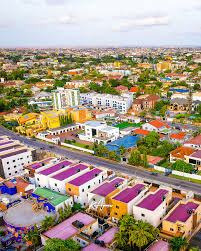
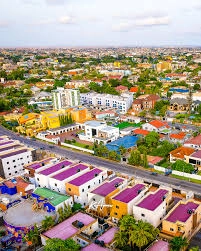
optimized images

diff --git a/place.html b/place.html
@@ -20,85 +20,87 @@
       <h1>Ghana</h1>
     </header>
 
-    <!-- Hero image using picture/srcset for responsive images -->
-    <picture class="hero">
-      <source media="(min-width: 600px)" srcset="images/ghana-wide.webp">
-      <img src="images/ghana-small.webp" alt="Aerial view of Accra, Ghana showing colourful rooftops and streets" width="800" height="500" loading="eager">
-    </picture>
+    <main>
+        <!-- Hero image using picture/srcset for responsive images -->
+        <picture class="hero">
+        <source media="(min-width: 600px)" srcset="images/ghana-wide.webp">
+        <img src="images/ghana-small.webp" alt="Aerial view of Accra, Ghana showing colourful rooftops and streets" width="800" height="500" loading="eager">
+        </picture>
 
-    <!-- Data section -->
-    <section class="data-section">
-      <h2>Data</h2>
-      <dl class="data-list">
-        <div class="data-row">
-          <dt>Area:</dt>
-          <dd>238,533 sq km</dd>
-        </div>
-        <div class="data-row">
-          <dt>Population:</dt>
-          <dd>33,475,870</dd>
-        </div>
-        <div class="data-row">
-          <dt>Capital:</dt>
-          <dd>Accra</dd>
-        </div>
-        <div class="data-row">
-          <dt>Languages:</dt>
-          <dd>English, Twi, Fante</dd>
-        </div>
-        <div class="data-row">
-          <dt>Currency:</dt>
-          <dd>Ghanaian Cedi</dd>
-        </div>
-        <div class="data-row">
-          <dt>Time Zone:</dt>
-          <dd>UTC+0</dd>
-        </div>
-        <div class="data-row">
-          <dt>Calling Code:</dt>
-          <dd>+233</dd>
-        </div>
-        <div class="data-row">
-          <dt>Internet TLD:</dt>
-          <dd>.gh</dd>
-        </div>
-      </dl>
-    </section>
+        <!-- Data section -->
+        <section class="data-section">
+        <h2>Data</h2>
+        <dl class="data-list">
+            <div class="data-row">
+            <dt>Area:</dt>
+            <dd>238,533 sq km</dd>
+            </div>
+            <div class="data-row">
+            <dt>Population:</dt>
+            <dd>33,475,870</dd>
+            </div>
+            <div class="data-row">
+            <dt>Capital:</dt>
+            <dd>Accra</dd>
+            </div>
+            <div class="data-row">
+            <dt>Languages:</dt>
+            <dd>English, Twi, Fante</dd>
+            </div>
+            <div class="data-row">
+            <dt>Currency:</dt>
+            <dd>Ghanaian Cedi</dd>
+            </div>
+            <div class="data-row">
+            <dt>Time Zone:</dt>
+            <dd>UTC+0</dd>
+            </div>
+            <div class="data-row">
+            <dt>Calling Code:</dt>
+            <dd>+233</dd>
+            </div>
+            <div class="data-row">
+            <dt>Internet TLD:</dt>
+            <dd>.gh</dd>
+            </div>
+        </dl>
+        </section>
 
-    <!-- Weather section -->
-    <section class="weather-section">
-      <h2 class="weather-heading">Weather</h2>
+        <!-- Weather section -->
+        <section class="weather-section">
+        <h2 class="weather-heading">Weather</h2>
 
-      <!-- SVG icon for mobile view -->
-      <div class="weather-icon-mobile">
-        <img src="images/partly-cloudy.svg" alt="Partly cloudy weather icon" width="80" height="80">
-      </div>
+        <!-- SVG icon for mobile view -->
+        <div class="weather-icon-mobile">
+            <img src="images/partly-cloudy.svg" alt="Partly cloudy weather icon" width="80" height="80">
+        </div>
 
-      <dl class="data-list">
-        <div class="data-row">
-          <dt>Temperature:</dt>
-          <dd>30 °C</dd>
-        </div>
-        <div class="data-row">
-          <dt>Conditions:</dt>
-          <dd>Partly Cloudy</dd>
-        </div>
-        <div class="data-row">
-          <dt>Wind:</dt>
-          <dd>15 km/h</dd>
-        </div>
-        <div class="data-row">
-          <dt>Wind Chill:</dt>
-          <dd id="windchill">N/A</dd>
-        </div>
-      </dl>
-    </section>
+        <dl class="data-list">
+            <div class="data-row">
+            <dt>Temperature:</dt>
+            <dd>30 °C</dd>
+            </div>
+            <div class="data-row">
+            <dt>Conditions:</dt>
+            <dd>Partly Cloudy</dd>
+            </div>
+            <div class="data-row">
+            <dt>Wind:</dt>
+            <dd>15 km/h</dd>
+            </div>
+            <div class="data-row">
+            <dt>Wind Chill:</dt>
+            <dd id="windchill">N/A</dd>
+            </div>
+        </dl>
+        </section>
 
-    <footer>
-      <p>&copy;<span id="currentyear"></span> ⭐ Emmanuel Okyere ⭐ Ghana</p>
-      <p id="lastModified"></p>
-    </footer>
+        <footer>
+        <p>&copy;<span id="currentyear"></span> ⭐ Emmanuel Okyere ⭐ Ghana</p>
+        <p id="lastModified"></p>
+        </footer>
 
+    </main>
   </div>
 
 </body>
